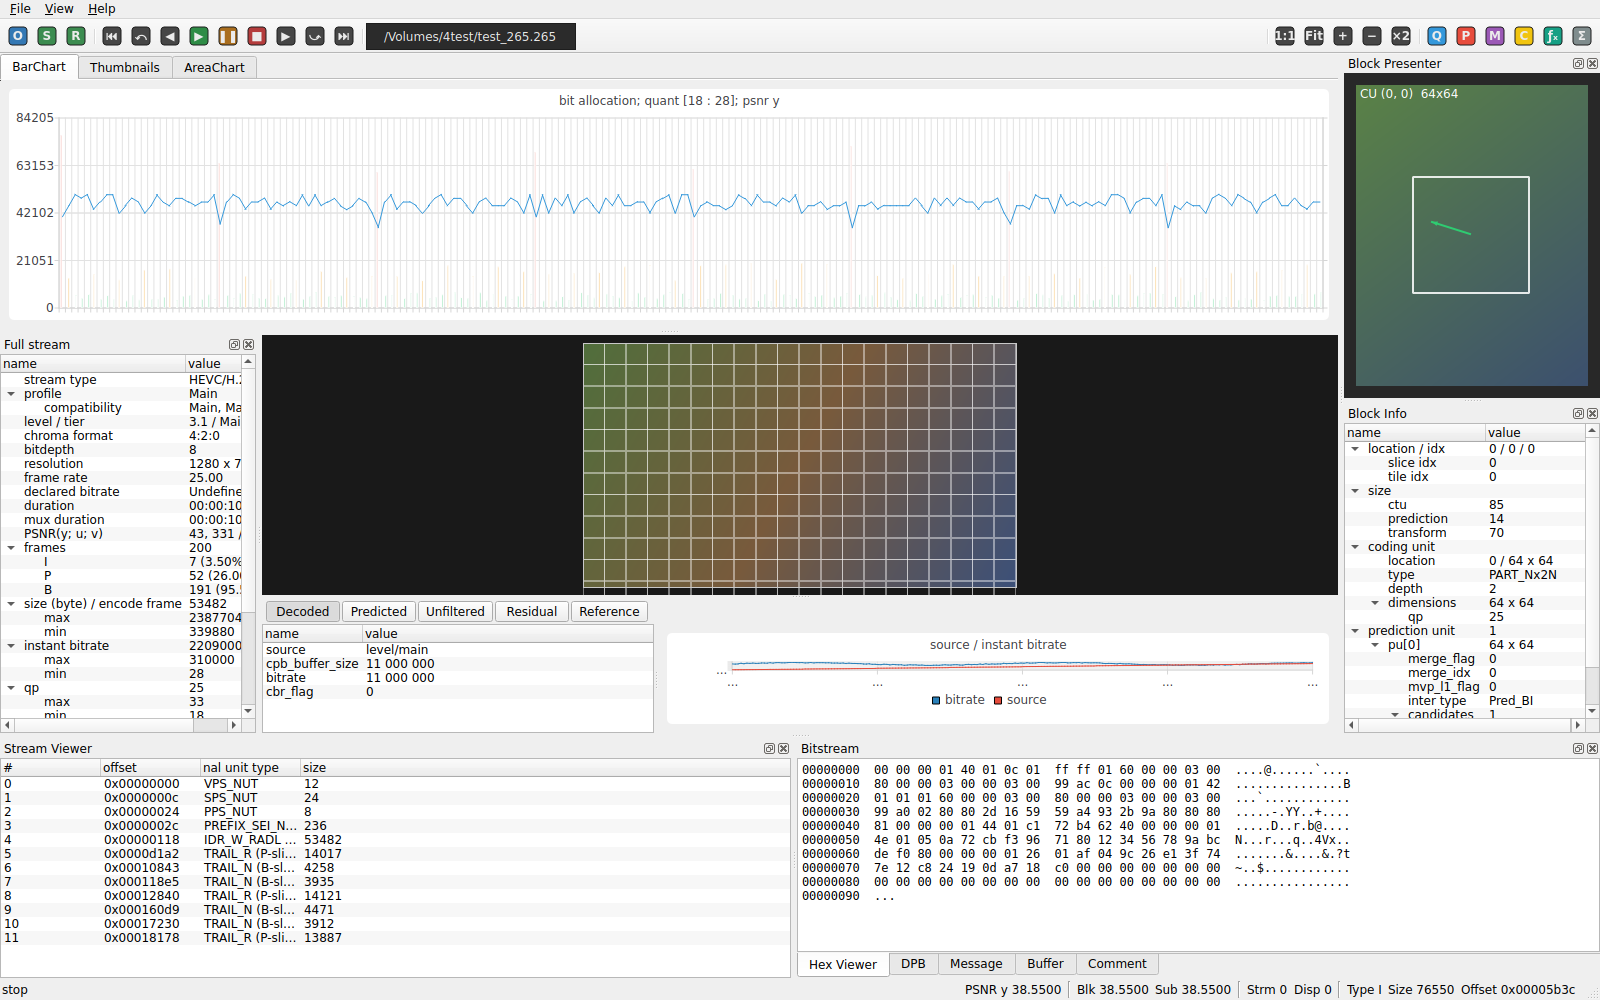
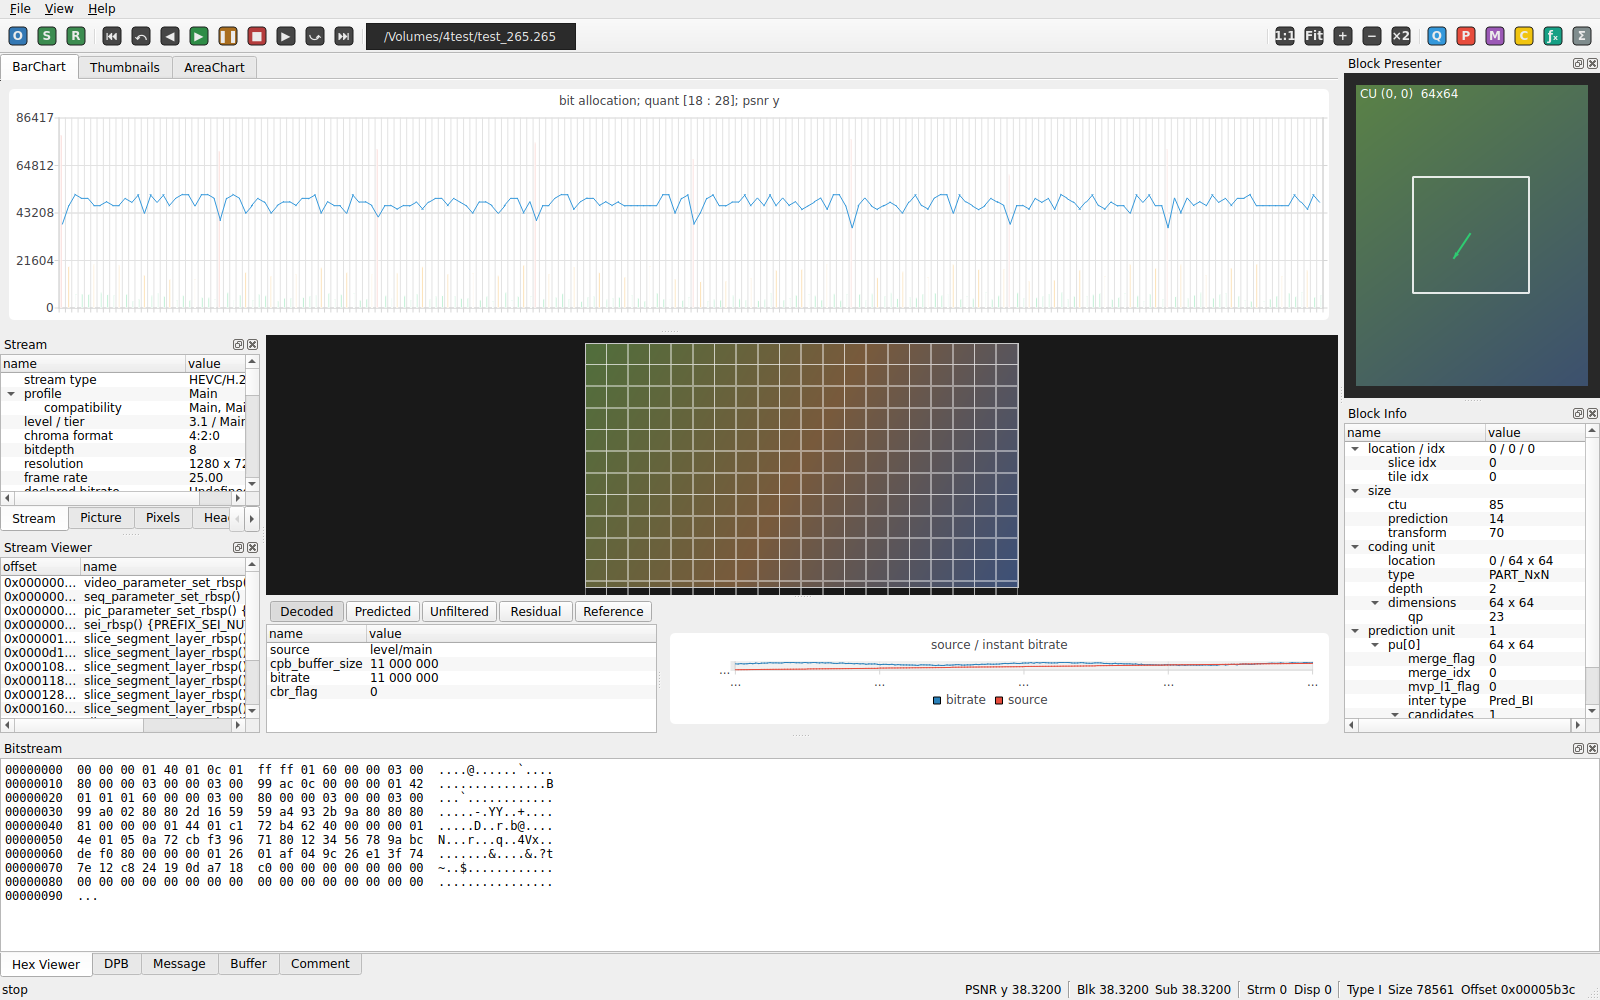
Rework left column to match StreamEye reference
- Rename the left top dock from "Full stream" to "Stream" and wrap the
  StreamInfoTree in a QTabWidget with six tabs:
  Stream / Picture / Pixels / Headers / Statistics / Overlay. The five
  non-Stream tabs are monospace placeholder editors for now.
- Move Stream Viewer from the bottom dock area into a left dock stacked
  underneath the Stream dock (splitDockWidget ..., Qt::Vertical).
- Change Stream Viewer columns to offset / name / val and populate it
  with slice_segment_layer_rbsp() {TRAIL_*} style mock entries that
  mirror the reference screenshot.
- The bottom dock now hosts only the Bitstream tabs
  (Hex Viewer / DPB / Message / Buffer / Comment).

https://claude.ai/code/session_01Fk599Kxe4RL25fwFBHgwYp

diff --git a/src/MainWindow.cpp b/src/MainWindow.cpp
@@ -149,15 +149,97 @@ void MainWindow::setupDocks() {
     chartDock->setAllowedAreas(Qt::TopDockWidgetArea);
     addDockWidget(Qt::TopDockWidgetArea, chartDock);
 
-    // --- Left dock: Stream info tree ---
-    auto* streamDock = new QDockWidget(tr("Full stream"), this);
-    streamDock->setObjectName(QStringLiteral("StreamInfoDock"));
-    m_streamInfoTree = new StreamInfoTree(streamDock);
+    // --- Left dock (top): Stream panel with 6 tabs -------------------------
+    // The "Stream" tab hosts the existing StreamInfoTree. The other five
+    // tabs are placeholders that will be filled in once real bitstream
+    // parsing lands.
+    auto* streamDock = new QDockWidget(tr("Stream"), this);
+    streamDock->setObjectName(QStringLiteral("StreamDock"));
+
+    auto* streamTabs = new QTabWidget(streamDock);
+    streamTabs->setDocumentMode(true);
+    streamTabs->setTabPosition(QTabWidget::South);
+
+    m_streamInfoTree = new StreamInfoTree(streamTabs);
     m_streamInfoTree->setStreamInfo(m_data.stream(), m_data.frames());
     m_streamInfoTree->setMinimumWidth(230);
-    streamDock->setWidget(m_streamInfoTree);
+    streamTabs->addTab(m_streamInfoTree, tr("Stream"));
+
+    auto makePlaceholder = [&](const QString& tip) {
+        auto* edit = new QPlainTextEdit(streamTabs);
+        edit->setReadOnly(true);
+        edit->setPlainText(tip);
+        QFont mono(QStringLiteral("Menlo"));
+        mono.setStyleHint(QFont::Monospace);
+        mono.setPointSize(9);
+        edit->setFont(mono);
+        return edit;
+    };
+    streamTabs->addTab(makePlaceholder(tr("(picture parameters per frame)")),
+                       tr("Picture"));
+    streamTabs->addTab(makePlaceholder(tr("(raw Y/U/V pixel values)")),
+                       tr("Pixels"));
+    streamTabs->addTab(makePlaceholder(tr("(VPS / SPS / PPS / SEI headers)")),
+                       tr("Headers"));
+    streamTabs->addTab(makePlaceholder(tr("(aggregated statistics)")),
+                       tr("Statistics"));
+    streamTabs->addTab(makePlaceholder(tr("(visual overlays configuration)")),
+                       tr("Overlay"));
+
+    streamDock->setWidget(streamTabs);
     streamDock->setAllowedAreas(Qt::LeftDockWidgetArea | Qt::RightDockWidgetArea);
     addDockWidget(Qt::LeftDockWidgetArea, streamDock);
+
+    // --- Left dock (bottom): Stream Viewer (NAL-unit listing) --------------
+    auto* streamViewerDock = new QDockWidget(tr("Stream Viewer"), this);
+    streamViewerDock->setObjectName(QStringLiteral("StreamViewerDock"));
+    auto* streamTree = new QTreeView(streamViewerDock);
+    {
+        auto* model = new QStandardItemModel(streamTree);
+        model->setHorizontalHeaderLabels({tr("offset"), tr("name"), tr("val")});
+
+        struct NalRow { qint64 offset; const char* name; const char* val; };
+        static const NalRow kNals[] = {
+            { 0x00000000, "video_parameter_set_rbsp() {VPS_NUT}",        ""  },
+            { 0x0000000c, "seq_parameter_set_rbsp() {SPS_NUT}",          ""  },
+            { 0x00000024, "pic_parameter_set_rbsp() {PPS_NUT}",          ""  },
+            { 0x0000002c, "sei_rbsp() {PREFIX_SEI_NUT}",                 ""  },
+            { 0x00000118, "slice_segment_layer_rbsp() {IDR_W_RADL}",     "I" },
+            { 0x0000d1a2, "slice_segment_layer_rbsp() {TRAIL_R}",        "P" },
+            { 0x00010843, "slice_segment_layer_rbsp() {TRAIL_N}",        "B" },
+            { 0x000118e5, "slice_segment_layer_rbsp() {TRAIL_N}",        "B" },
+            { 0x00012840, "slice_segment_layer_rbsp() {TRAIL_R}",        "P" },
+            { 0x000160d9, "slice_segment_layer_rbsp() {TRAIL_N}",        "B" },
+            { 0x00017230, "slice_segment_layer_rbsp() {TRAIL_N}",        "B" },
+            { 0x00018178, "slice_segment_layer_rbsp() {TRAIL_R}",        "P" },
+            { 0x0001b4a1, "slice_segment_layer_rbsp() {TRAIL_N}",        "B" },
+            { 0x0001c2f7, "slice_segment_layer_rbsp() {TRAIL_N}",        "B" },
+            { 0x0001d3c0, "slice_segment_layer_rbsp() {TRAIL_R}",        "P" },
+        };
+        for (const auto& n : kNals) {
+            auto* off = new QStandardItem(
+                QStringLiteral("0x%1").arg(n.offset, 8, 16, QChar('0')));
+            auto* nm  = new QStandardItem(QLatin1String(n.name));
+            auto* vl  = new QStandardItem(QLatin1String(n.val));
+            for (auto* it : {off, nm, vl}) it->setEditable(false);
+            model->appendRow({off, nm, vl});
+        }
+        streamTree->setModel(model);
+        streamTree->setAlternatingRowColors(true);
+        streamTree->setRootIsDecorated(false);
+        streamTree->setEditTriggers(QAbstractItemView::NoEditTriggers);
+        streamTree->setUniformRowHeights(true);
+        streamTree->header()->setStretchLastSection(false);
+        streamTree->setColumnWidth(0, 80);
+        streamTree->setColumnWidth(1, 230);
+    }
+    streamViewerDock->setWidget(streamTree);
+    streamViewerDock->setMinimumWidth(230);
+    streamViewerDock->setAllowedAreas(Qt::LeftDockWidgetArea | Qt::RightDockWidgetArea);
+    addDockWidget(Qt::LeftDockWidgetArea, streamViewerDock);
+
+    // Stack Stream (top) over Stream Viewer (bottom) on the left.
+    splitDockWidget(streamDock, streamViewerDock, Qt::Vertical);
 
     // --- Right (top) dock: Block Presenter (motion-vector viewer) ---
     auto* mvDock = new QDockWidget(tr("Block Presenter"), this);
@@ -196,53 +278,7 @@ static QPlainTextEdit* makeMonoEdit(const QString& initial, QWidget* parent) {
 }
 
 void MainWindow::setupBottomDocks() {
-    // --- Bottom-left dock: Stream Viewer -----------------------------------
-    // A NAL-unit / syntax-element listing. Implemented as a QTreeView backed
-    // by a QStandardItemModel with mock bitstream entries.
-    auto* streamDock = new QDockWidget(tr("Stream Viewer"), this);
-    streamDock->setObjectName(QStringLiteral("StreamViewerDock"));
-    auto* streamTree = new QTreeView(streamDock);
-    {
-        auto* model = new QStandardItemModel(streamTree);
-        model->setHorizontalHeaderLabels(
-            {tr("#"), tr("offset"), tr("nal unit type"), tr("size")});
-
-        struct NalRow { int idx; qint64 offset; const char* type; int size; };
-        static const NalRow kNals[] = {
-            { 0, 0x00000000, "VPS_NUT",                12 },
-            { 1, 0x0000000c, "SPS_NUT",                24 },
-            { 2, 0x00000024, "PPS_NUT",                 8 },
-            { 3, 0x0000002c, "PREFIX_SEI_NUT",        236 },
-            { 4, 0x00000118, "IDR_W_RADL (I-slice)", 53482 },
-            { 5, 0x0000d1a2, "TRAIL_R (P-slice)",    14017 },
-            { 6, 0x00010843, "TRAIL_N (B-slice)",     4258 },
-            { 7, 0x000118e5, "TRAIL_N (B-slice)",     3935 },
-            { 8, 0x00012840, "TRAIL_R (P-slice)",    14121 },
-            { 9, 0x000160d9, "TRAIL_N (B-slice)",     4471 },
-            {10, 0x00017230, "TRAIL_N (B-slice)",     3912 },
-            {11, 0x00018178, "TRAIL_R (P-slice)",    13887 },
-        };
-        for (const auto& n : kNals) {
-            auto* idx  = new QStandardItem(QString::number(n.idx));
-            auto* off  = new QStandardItem(
-                QStringLiteral("0x%1").arg(n.offset, 8, 16, QChar('0')));
-            auto* type = new QStandardItem(QLatin1String(n.type));
-            auto* size = new QStandardItem(QString::number(n.size));
-            for (auto* it : {idx, off, type, size}) it->setEditable(false);
-            model->appendRow({idx, off, type, size});
-        }
-        streamTree->setModel(model);
-        streamTree->setAlternatingRowColors(true);
-        streamTree->setRootIsDecorated(false);
-        streamTree->setEditTriggers(QAbstractItemView::NoEditTriggers);
-        streamTree->header()->setStretchLastSection(true);
-        streamTree->setUniformRowHeights(true);
-    }
-    streamDock->setWidget(streamTree);
-    streamDock->setMinimumHeight(140);
-    addDockWidget(Qt::BottomDockWidgetArea, streamDock);
-
-    // --- Bottom-right dock: Hex Viewer / DPB / Message / Buffer / Comment ---
+    // --- Bottom dock: Hex Viewer / DPB / Message / Buffer / Comment --------
     auto* bitstreamDock = new QDockWidget(tr("Bitstream"), this);
     bitstreamDock->setObjectName(QStringLiteral("BitstreamDock"));
     auto* tabs = new QTabWidget(bitstreamDock);
@@ -330,9 +366,6 @@ void MainWindow::setupBottomDocks() {
     bitstreamDock->setWidget(tabs);
     bitstreamDock->setMinimumHeight(140);
     addDockWidget(Qt::BottomDockWidgetArea, bitstreamDock);
-
-    // Place the two bottom docks side-by-side.
-    splitDockWidget(streamDock, bitstreamDock, Qt::Horizontal);
 }
 
 void MainWindow::setupToolbarAndMenu() {
